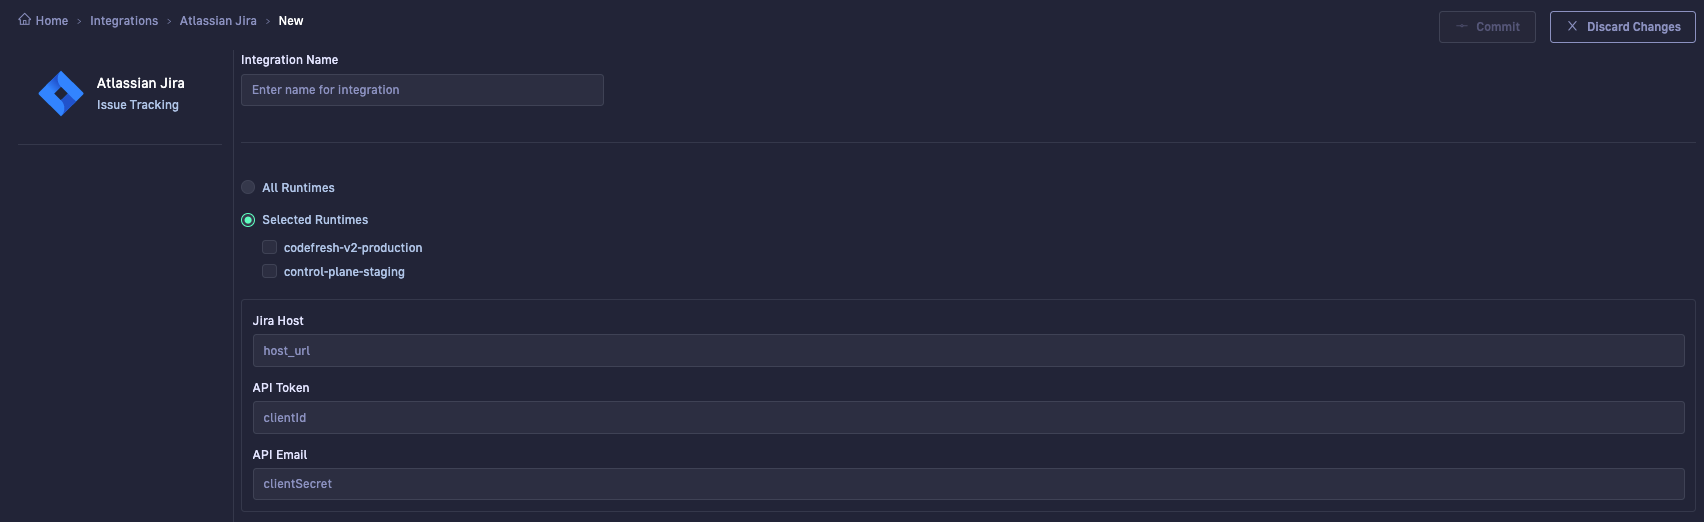
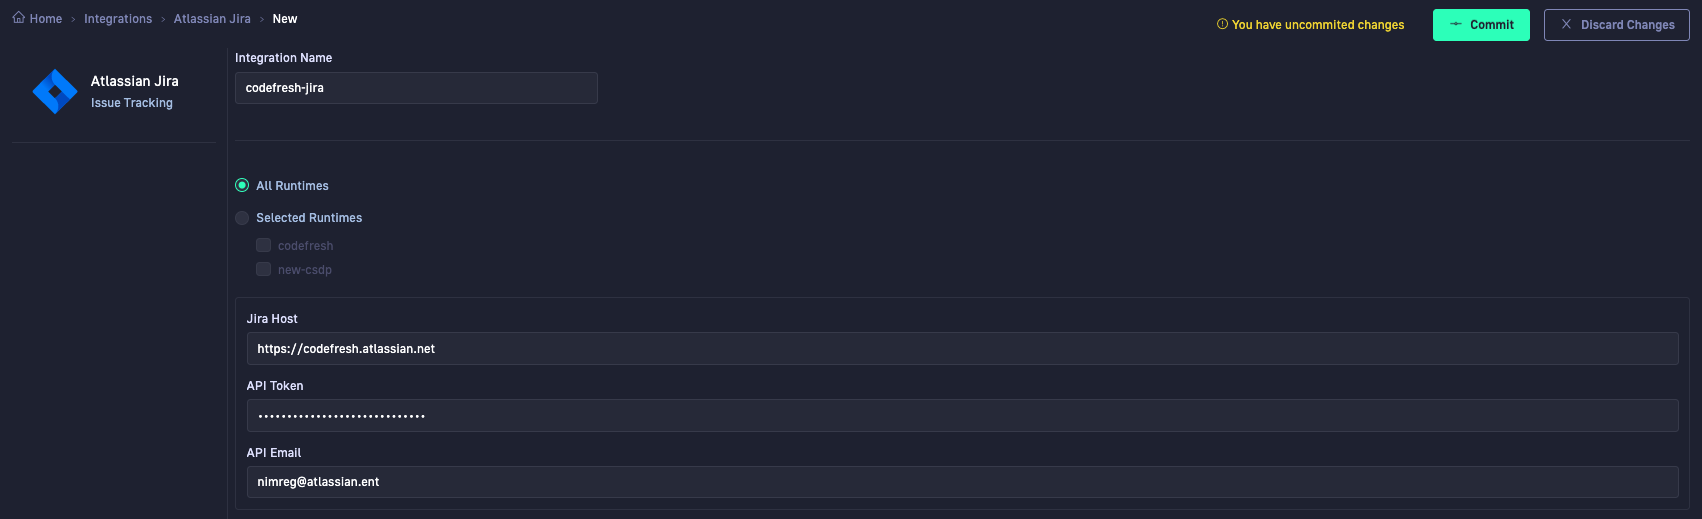
Update jira integration
Replaced with populated screenshot and added example of url

diff --git a/_docs/integrations/jira.md b/_docs/integrations/jira.md
@@ -29,7 +29,7 @@ Once you have set up a JIRA instance, configure the JIRA integration settings in
 1. Configure the JIRA integration settings:
   * Enter an **Integration name**. You can have multiple JIRA instances connected.
   * Use this integration for **All runtimes**, or specific **Selected runtimes**.
-  * **JIRA Host**: The URL of your JIRA instance.
+  * **JIRA Host**: The URL of your JIRA instance. For example, `https://<company>.atlassian.net`
   * **API Token**: The JIRA password/token you noted down when you created the JIRA instance.
   * **API Email**: The email for the API token.
 
